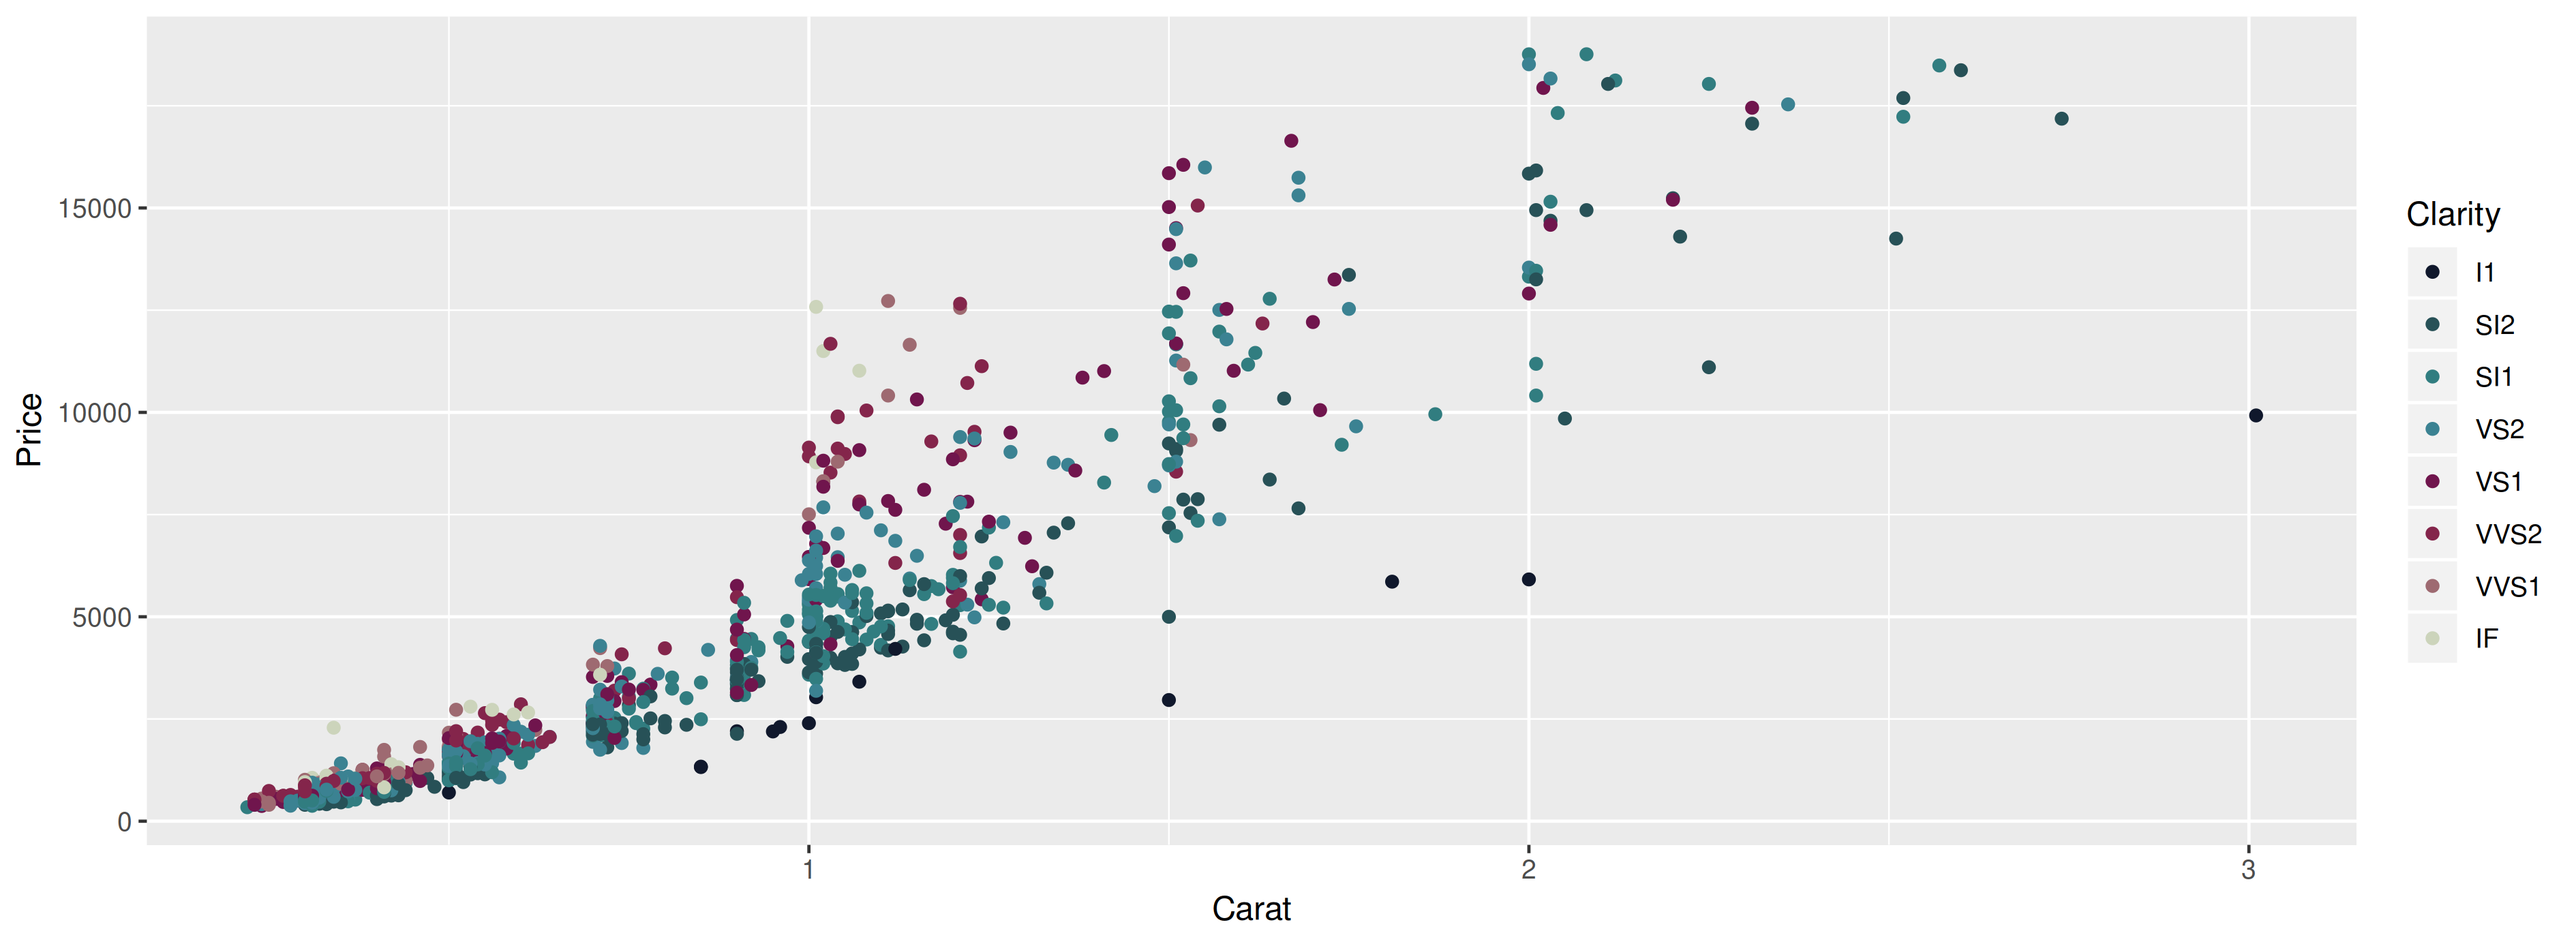
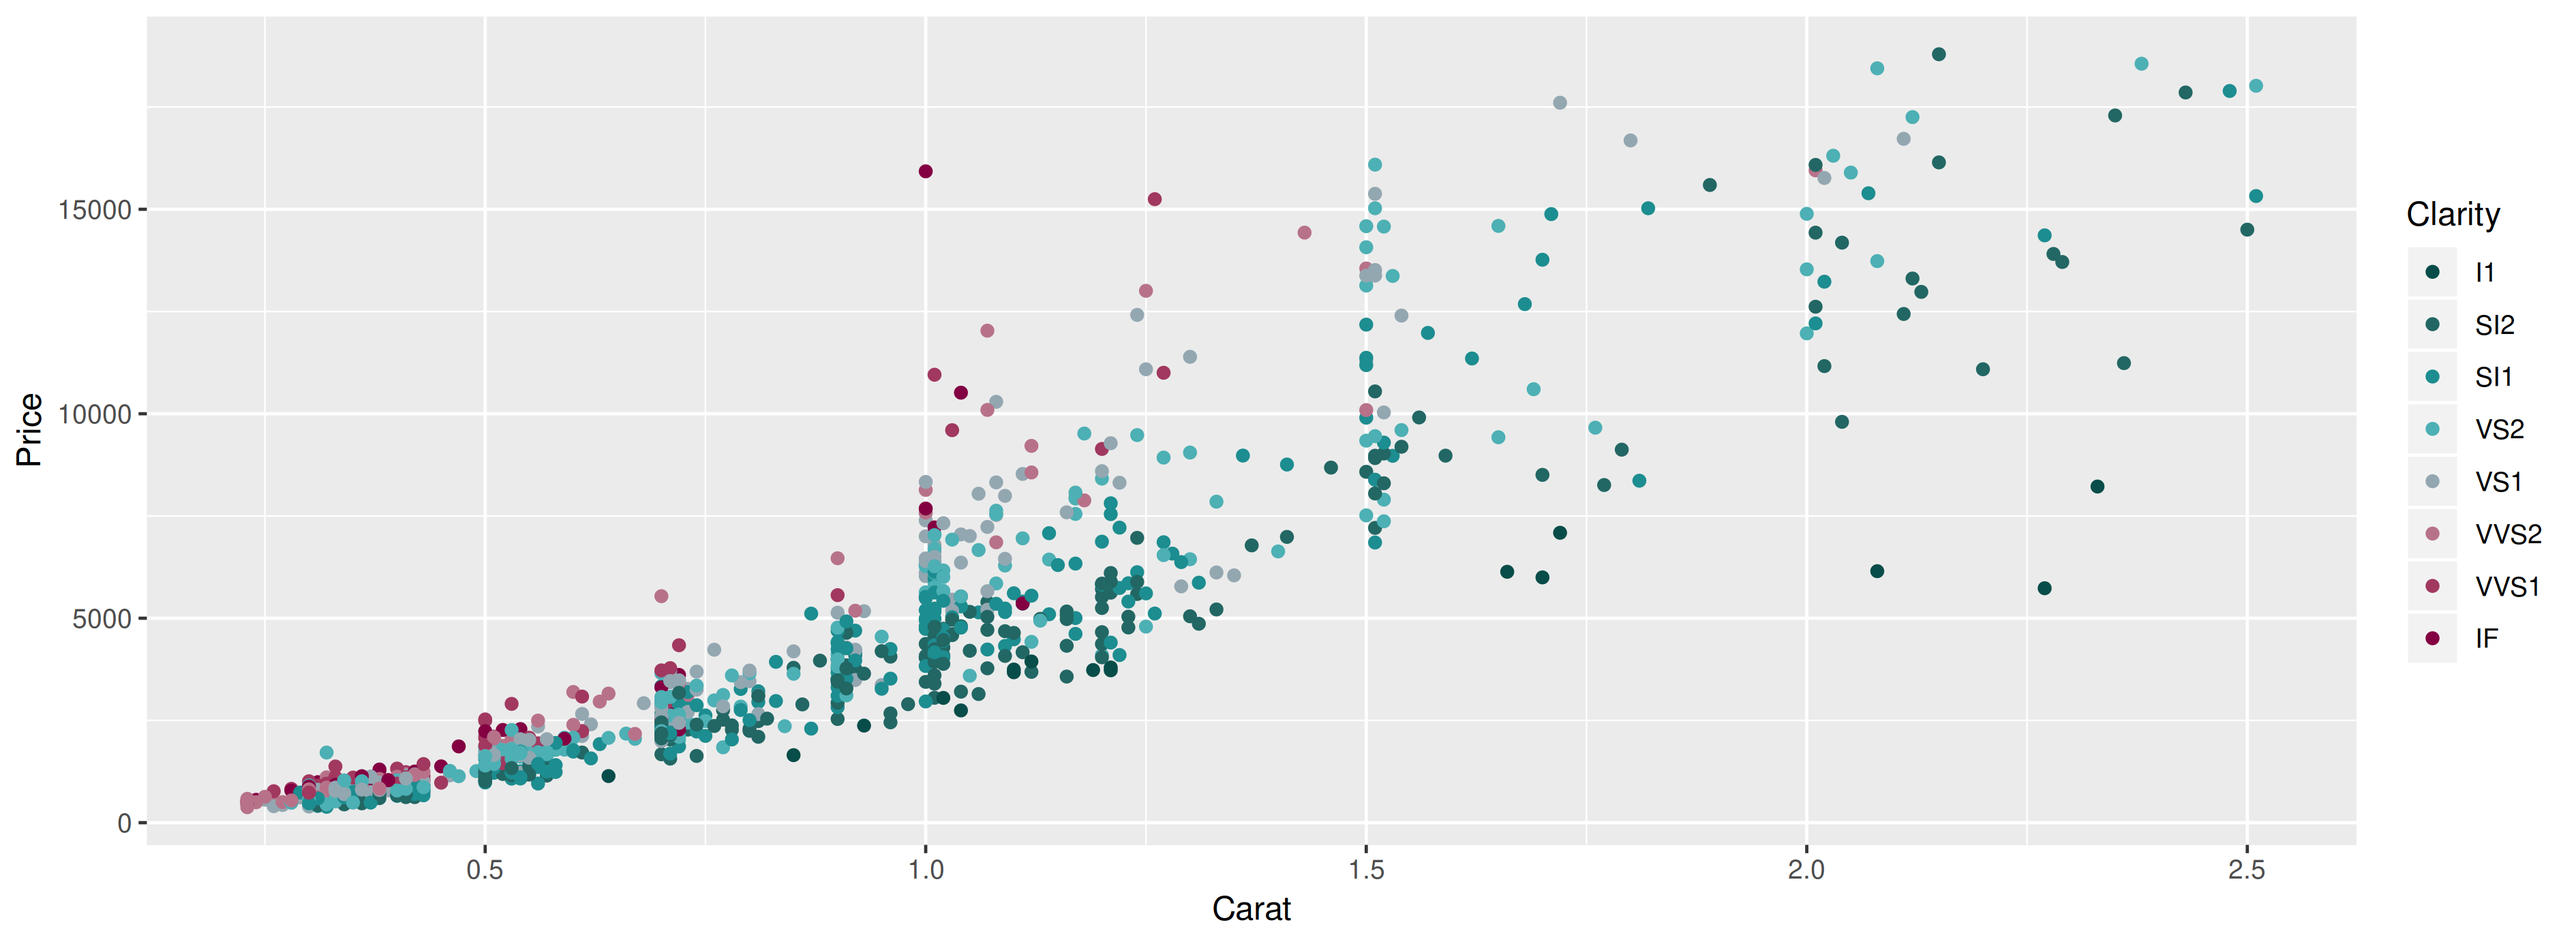
readme updated

diff --git a/readme.md b/readme.md
@@ -41,48 +41,23 @@ Usage
 
 The default colour scale of the package is the one of the house *Hufflepuff*. If you prefer to choose another one, you'll need to specify which house you want the palette from.
 
-Let's say that you want a palette made from the house **Gryffindor**.
+You can get started using base R plot functions, and the `hp()` function. Its first argument `n` lets you set the number of colours to be mapped. This way you can set different resolutions. Let's say that you want a palette made from the house **Gryffindor**, then just type `option = "Gryffindor"`. 
 
 
 ```r
-pal <- hp(25, house = "Gryffindor")
+pal <- hp(n = 8, house = "Gryffindor")
+image(volcano, col = pal)
+
+pal <- hp(n = 128, house = "Gryffindor")
 image(volcano, col = pal)
 ```
 
-<center><img src="https://raw.githubusercontent.com/aljrico/aljrico.github.io/master/_posts/images/unnamed-chunk-3-1.png" ></center>
+<center><img src="https://raw.githubusercontent.com/aljrico/harrypotter/master/readme_raw_files/examples/gryffindor_volcano.png" ></center>
 
-Or a bit more like me, you prefer to be a **Ravenclaw**.
-
-
-```r
-pal <- hp(25, house = "Ravenclaw")
-image(volcano, col = pal)
-```
-
-<center><img src="https://raw.githubusercontent.com/aljrico/aljrico.github.io/master/_posts/images/unnamed-chunk-4-1.png" ></center>
-
-Or put them all together
-
-
-```r
-pal_gryff <- hp(25, house = "Gryffindor")
-pal_rav   <- hp(25, house = "Ravenclaw")
-pal_huff  <- hp(25, house = "Hufflepuff")
-pal_sly   <- hp(25, house = "Slytherin")
-
-par(mfrow = c(2,2))
-image(volcano, col = pal_gryff)
-image(volcano, col = pal_rav)
-image(volcano, col = pal_huff)
-image(volcano, col = pal_sly)
-```
-
-<center><img src="https://raw.githubusercontent.com/aljrico/aljrico.github.io/master/_posts/images/unnamed-chunk-5-1.png" ></center>
-
-### ggplot2
+## ggplot2
 
 Of course, this package has specific functions to behave seamlessly with the best data visiualisation library available. 
-The package contains colour scale functions for **ggplot2** plots: `scale_color_hp()` and `scale_fill_hp()`.
+The package contains colour scale functions for **ggplot2** plots: `scale_colour_hp()` and `scale_fill_hp()`. 
 
 
 Here is a made up example using the colours from the house of **Hufflepuff**,
@@ -99,22 +74,8 @@ ggplot(data.frame(x = rnorm(1e4), y = rnorm(1e4)), aes(x = x, y = y)) +
 
 <center><img src="https://raw.githubusercontent.com/aljrico/aljrico.github.io/master/_posts/images/unnamed-chunk-6-1.png" ></center>
 
-and **Ravenclaw**
 
-
-```r
-library(ggplot2)
-ggplot(data.frame(x = rnorm(1e4), y = rnorm(1e4)), aes(x = x, y = y)) +
-  geom_hex() + 
-	coord_fixed() +
-  scale_fill_hp(house = "ravenclaw") + 
-	theme_bw()
-```
-
-<center><img src="https://raw.githubusercontent.com/aljrico/aljrico.github.io/master/_posts/images/unnamed-chunk-7-1.png" ></center>
-
-
-or more made-up heatmaps
+or more made-up heatmaps:
 
 <center><img src="https://raw.githubusercontent.com/aljrico/aljrico.github.io/master/_posts/images/unnamed-chunk-8-1.png" ></center>
 
@@ -126,45 +87,42 @@ Using the same function we can also plot these cloropleth maps of U.S. unemploym
 <center><img src="https://raw.githubusercontent.com/aljrico/aljrico.github.io/master/_posts/images/ggplot2-2.png" ></center>
 
 
+### Discrete Scales
 
 But what if you want discrete scales? These functions also can be used for discrete scales with the argument `discrete = TRUE`. This argument, when TRUE, sets a finite number of sufficiently spaced colours within the selected palette to plot your data.
 
 
 ```r
-library("ggplot2")
-ggplot(mtcars, aes(factor(cyl), fill=factor(vs))) +  
-	geom_bar() +
-  scale_fill_hp(discrete = TRUE, house = "Ravenclaw")
-```
-
-<center><img src="https://raw.githubusercontent.com/aljrico/aljrico.github.io/master/_posts/images/unnamed-chunk-9-1.png" ></center>
-
-
-```r
-ggplot(mpg, aes(class)) +
-	geom_bar(aes(fill = drv), position = position_stack(reverse = TRUE)) +
- coord_flip() +
-	scale_fill_hp(discrete = TRUE, house = "Gryffindor") +
- theme(legend.position = "top") +
+ggplot(diamonds, aes(factor(color), fill=factor(cut))) +
+	geom_bar(colour = "black") +
+	scale_fill_hp(discrete = TRUE, option = "ronweasley", name = "Cut") +
 	ylab("") +
-	xlab("Class")
+	xlab("Colour") +
+	coord_flip()
 ```
 
-<center><img src="https://raw.githubusercontent.com/aljrico/aljrico.github.io/master/_posts/images/unnamed-chunk-10-1.png" ></center>
+<center><img src="https://raw.githubusercontent.com/aljrico/harrypotter/master/readme_raw_files/examples/ronweasley_bar.png" ></center>
 
-
+You can also use discrete scales by adding `_d()` at the end of it instead, like `scale_fill_hp_d()`.
 
 
 ```r
-x <- y <- seq(-8*pi, 8*pi, len = 40)
-r <- sqrt(outer(x^2, y^2, "+"))
-filled.contour(cos(r^2)*exp(-r/(2*pi)), 
-               axes=FALSE,
-               color.palette=hp,
-               asp=1)
+dsamp <- diamonds[sample(nrow(diamonds), 1000), ]
+ggplot(dsamp, aes(carat, price)) +
+	geom_point(aes(colour = clarity)) +
+	scale_colour_hp_d(option = "LunaLovegood", name = "Clarity") +
+	xlab("Carat") +
+	ylab("Price")
 ```
 
-<center><img src="https://raw.githubusercontent.com/aljrico/aljrico.github.io/master/_posts/images/unnamed-chunk-11-1.png" ></center>
+<center><img src="https://raw.githubusercontent.com/aljrico/harrypotter/master/readme_raw_files/examples/lunalovegood_scatter.png" ></center>
+
+
+Don't forget to try them all.
+
+<center><img src="https://raw.githubusercontent.com/aljrico/harrypotter/master/readme_raw_files/examples/mischief_always_tile.png" ></center>
+
+
 
 # Palettes
 
